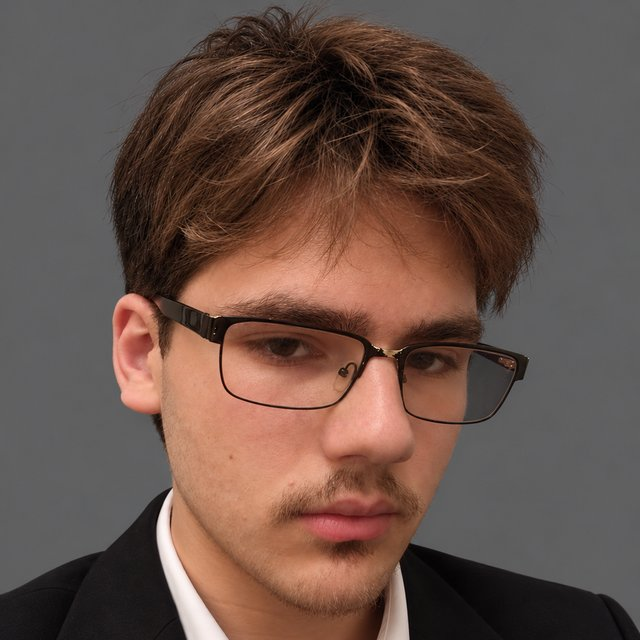
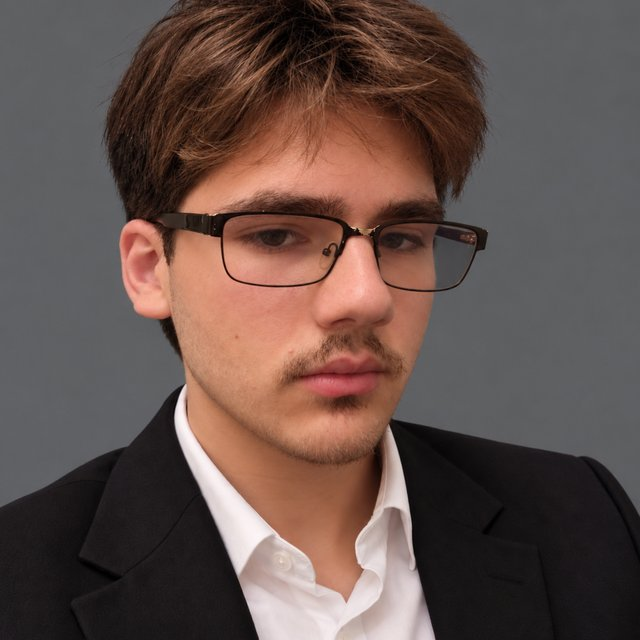
Update portrait photo
* Move junior-positions sentence from About Me to intro CTA

* Update portrait photo

* Update portrait photo

diff --git a/index.html b/index.html
@@ -55,10 +55,10 @@
                 </hgroup>
                 <figure class="intro-photo-frame">
                     <picture>
-                        <source srcset="images/portfoliopic.webp?v=4" type="image/webp">
+                        <source srcset="images/portfoliopic.webp?v=5" type="image/webp">
                         <img
                             class="intro-photo"
-                            src="images/portfoliopic.jpeg?v=4"
+                            src="images/portfoliopic.jpeg?v=5"
                             width="640"
                             height="640"
                             draggable="false"
